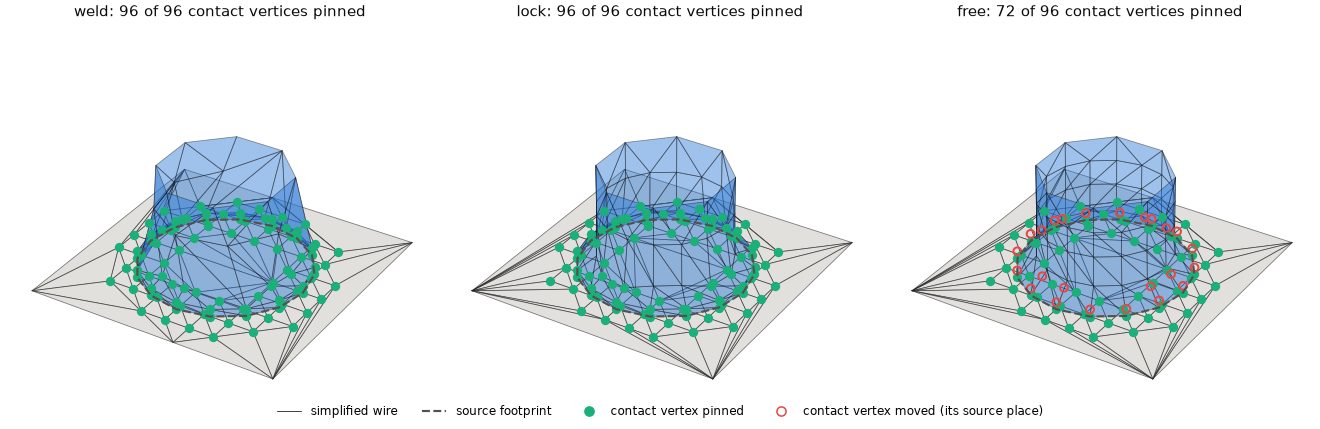
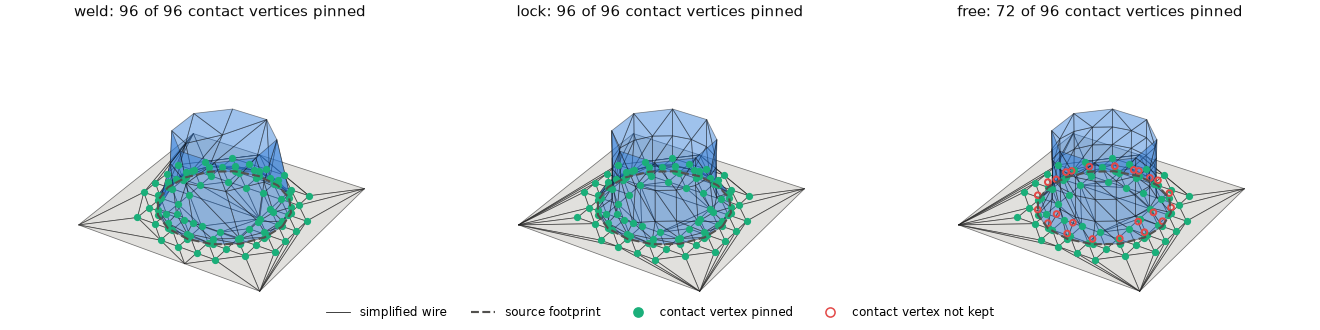
docs: contact figure review fixes: claims the panels show, smaller markers

diff --git a/launcher/tools/r3d/bake_figures/contact_figures.py b/launcher/tools/r3d/bake_figures/contact_figures.py
@@ -2,7 +2,7 @@
 
 A pillar standing on a floor, two objects that share no vertex, carved as a mesh with each seam policy in turn and
 simplified to the same budgets. Each panel shows the base from above at an angle: the simplified wire, the source
-footprint, and each contact vertex pinned where the source had it or moved by the pass.
+footprint, and each contact vertex pinned where the source had it or not kept by the pass.
 
     python launcher/tools/r3d/bake_figures/contact_figures.py --out DIR
 
@@ -44,12 +44,12 @@ SAME_POINT_DECIMALS = 5
 # The view: from VIEW_ELEVATION degrees up, turned VIEW_AZIMUTH about the pillar's axis.
 VIEW_ELEVATION = 32
 VIEW_AZIMUTH = -58
-PANEL_SIZE = (4.0, 3.9)
+PANEL_SIZE = (4.0, 3.0)
 FLOOR_ALPHA = 0.55
 PILLAR_ALPHA = 0.45
 WIRE_WIDTH = 0.5
 FOOTPRINT_WIDTH = 1.4
-MARKER_SIZE = 26
+MARKER_SIZE = 14
 MOVED_EDGE = 1.3
 PINNED_COLOUR = SLOTS[2]
 MOVED_COLOUR = SLOTS[7]
@@ -154,7 +154,7 @@ def main(argv=None):
               Line2D([], [], color=MUTED, linewidth=FOOTPRINT_WIDTH, linestyle="dashed", label="source footprint"),
               Line2D([], [], marker="o", linestyle="none", color=PINNED_COLOUR, label="contact vertex pinned"),
               Line2D([], [], marker="o", linestyle="none", markerfacecolor="none", markeredgecolor=MOVED_COLOUR,
-                     label="contact vertex moved (its source place)")]
+                     label="contact vertex not kept")]
     fig.legend(handles=legend, loc="lower center", ncol=len(legend), fontsize=LABEL_SIZE, frameon=False)
     args.out.mkdir(parents=True, exist_ok=True)
     save(fig, args.out / FIGURE_NAME)

diff --git a/docs/render/offline/Mesh-Import.md b/docs/render/offline/Mesh-Import.md
@@ -180,13 +180,14 @@ The tolerance is the reciprocal of `output.position_scale`.
 | `lock` | Own pass; fix contact vertices on both sides. | Closed |
 | `free` | Own pass; only the rest's side of a contact is fixed. | May open on the mesh's side; the rest stays closed |
 
-A pillar standing on a floor, carved with each policy at the same budgets:
+A pillar standing on a floor, carved with each policy and the same configured
+budgets:
 
 ![A pillar's contact with the floor under weld, lock and free](../../images/render/import-mesh-contact.png)
 
-Weld and lock pin every contact vertex, so the base keeps the source footprint
-and the shaft gets what the budget leaves. Free moves the pillar's side of the
-contact: its base steps in from the footprint, and the shaft keeps more.
+Weld and lock pin every contact vertex; weld shares one budget with the floor,
+so its pillar ends with fewer triangles than under lock. Free keeps only the
+floor's side pinned, and the pass spends what it frees up the shaft.
 
 Rigid copies share local simplification and their union of locks. Each copy
 is lit against the full source.
